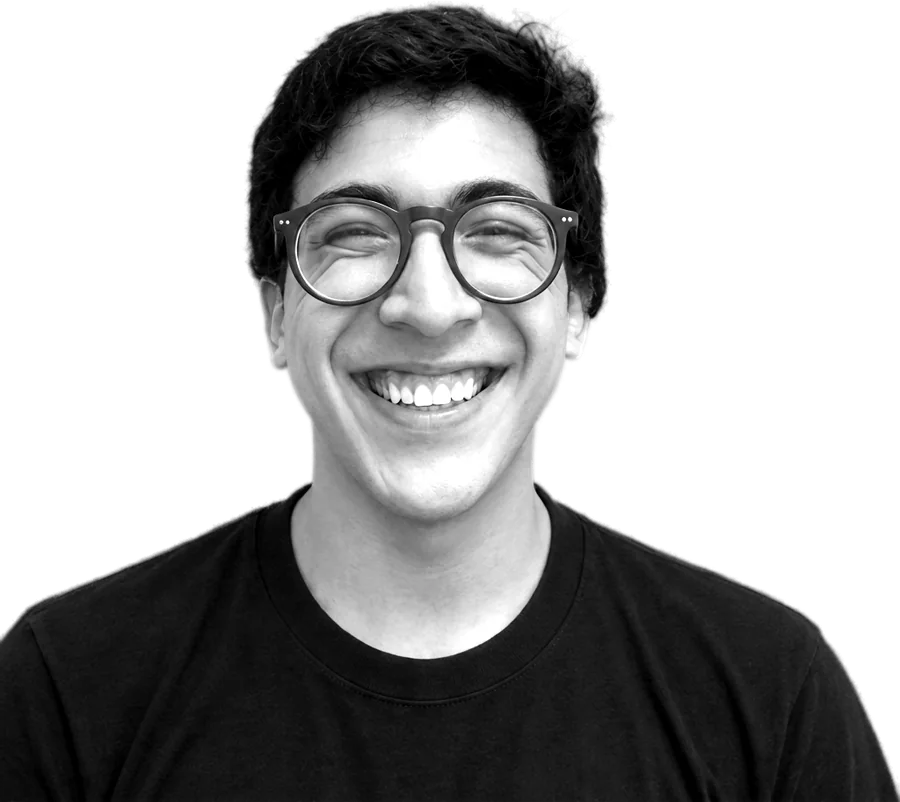
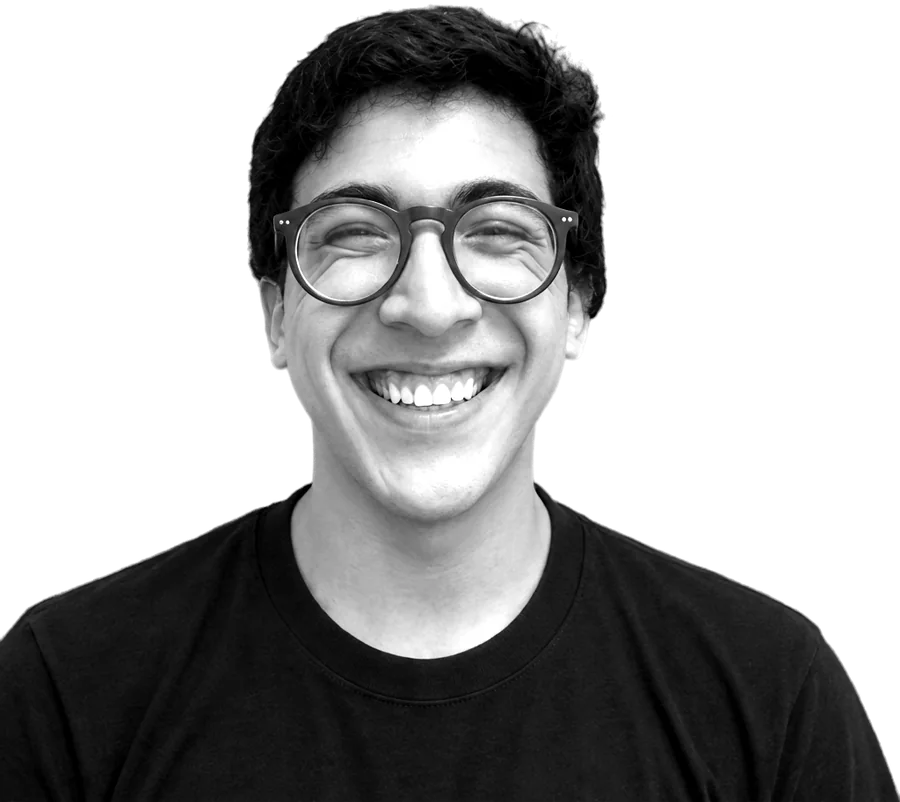
Hero de marca personal a pantalla completa (v2)
Inspirado en las webs de Vilma Núñez, Marie Forleo y Pat Flynn revisadas en Chrome: fondo marino a todo el alto de la pantalla, retrato en blanco y negro grande a la derecha que se funde con el fondo y el titular montado sobre la imagen. En móvil, la foto arriba y el titular encima de su borde inferior. Ajustado para pantallas bajas (1536x730): el botón queda visible sin bajar.

Claude-Session: https://claude.ai/code/session_01E4dwmk8EYevZGHRGn8BBYn

diff --git a/landing/assets/site.css b/landing/assets/site.css
@@ -278,50 +278,61 @@ a[href^="mailto:"], a[href^="tel:"]{overflow-wrap:anywhere;}
 
 
 /* ============================================================
-   Hero con retrato recortado (25 oct 2026)
-   Patrón de marca personal: titular a la izquierda, la persona a
-   la derecha apoyada en el borde inferior. Detrás, los tres
-   círculos del método en línea fina; la tarjeta pone nombre.
+   Hero de marca personal (25 oct 2026, v2)
+   Referencias revisadas en Chrome: Vilma Núñez, Marie Forleo,
+   Pat Flynn. Patrón común: la persona a pantalla completa, fondo
+   oscuro y el titular encima de la imagen, como un solo bloque.
+   Aquí: fondo marino, retrato en blanco y negro que ocupa todo el
+   alto a la derecha y se funde con el fondo; el titular se monta
+   sobre el borde del retrato.
    ============================================================ */
-.hero{padding-bottom:0 !important;}
-.hero-grid{display:grid; grid-template-columns:1.1fr .9fr; gap:48px; align-items:end;}
-.hero-copy{padding-bottom:120px;}
-.hero-portrait{position:relative; margin:0; align-self:end; justify-self:center; width:100%; max-width:520px;}
-.hero-portrait img{position:relative; z-index:1; display:block; width:100%; height:auto;}
-.hero-rings{position:absolute; z-index:0; left:-6%; top:-8%; width:112%; height:auto; fill:none; stroke-width:1.5;}
-.hero-rings circle:nth-child(1){stroke:var(--olive);}
-.hero-rings circle:nth-child(2){stroke:var(--ink); opacity:.55;}
-.hero-rings circle:nth-child(3){stroke:var(--olive-soft);}
-.hero-card{
-  position:absolute; z-index:2; left:-28px; bottom:96px; max-width:250px;
-  background:var(--white); border-left:3px solid var(--olive);
-  padding:14px 16px; box-shadow:0 10px 30px rgba(22,33,58,.12);
-  font-family:'Poppins',sans-serif; font-size:13px; line-height:1.45; color:var(--ink-soft);
+.hero.hero-full{
+  background:var(--navy-block) !important; clip-path:none !important;
+  padding:0 !important; min-height:max(560px, calc(100svh - 77px)); display:flex; align-items:center;
+  position:relative; overflow:hidden;
 }
-.hero-card b{display:block; font-family:'Space Grotesk',sans-serif; font-size:15px; color:var(--ink); margin-bottom:4px;}
+.hero-full .wrap.hero-grid{display:block; position:static; width:100%;}
+.hero-full .hero-copy{position:relative; z-index:3; max-width:min(680px, 58%); padding:56px 0;}
+.hero-full .hero-kicker{color:var(--mint);}
+.hero-full h1{color:var(--on-navy) !important; font-size:clamp(38px, min(4.8vw, 8.4vh), 70px) !important; line-height:1.02 !important; text-shadow:0 2px 24px rgba(22,33,58,.55);}
+.hero-full .lede{color:rgba(250,248,243,.78) !important; max-width:46ch; margin-top:20px !important;}
+.hero-full .tachado-linea{margin-top:20px;}
+.hero-full .btn-primary{background:var(--mint) !important; color:var(--navy-block) !important;}
+.hero-full .btn-primary:hover{background:var(--on-navy) !important;}
+.hero-full .btn-ghost{color:var(--on-navy) !important; border-bottom-color:rgba(250,248,243,.6) !important;}
+.hero-full .hero-actions{margin-top:26px !important;}
+.hero-full .hero-portrait{position:absolute; z-index:1; right:0; bottom:0; height:100%; width:min(62vw, 980px); margin:0;}
+.hero-full .hero-portrait img{position:absolute; right:-2%; bottom:0; height:96%; width:auto; max-width:none; object-fit:contain;}
+.hero-full .hero-portrait::after{ /* funde el retrato con el fondo por la izquierda y abajo */
+  content:""; position:absolute; inset:0; z-index:2; pointer-events:none;
+  background:linear-gradient(90deg, var(--navy-block) 0%, rgba(22,33,58,.85) 18%, rgba(22,33,58,0) 52%),
+             linear-gradient(0deg, rgba(22,33,58,.9) 0%, rgba(22,33,58,0) 22%);
+}
+.hero-full .hero-name{position:absolute; z-index:3; right:40px; bottom:28px; text-align:right; font-family:'Poppins',sans-serif; color:rgba(250,248,243,.8); font-size:13px;}
+.hero-full .hero-name b{display:block; font-family:'Space Grotesk',sans-serif; font-size:16px; color:var(--on-navy);}
+.hero-full .hero-name span{color:var(--mint);}
 @media (max-width:900px){
-  .hero-grid{grid-template-columns:1fr !important; gap:28px !important;}
-  .hero-copy{padding-bottom:0;}
-  .hero-portrait{max-width:340px;}
-  .hero-card{left:auto; right:-8px; bottom:40px; max-width:200px; font-size:12px;}
+  .hero.hero-full{display:block; min-height:0;}
+  .hero-full .hero-portrait{position:relative; width:100%; height:auto; aspect-ratio:9/8;}
+  .hero-full .hero-portrait img{position:absolute; left:50%; right:auto; transform:translateX(-50%); height:100%;}
+  .hero-full .hero-portrait::after{background:linear-gradient(0deg, var(--navy-block) 0%, rgba(22,33,58,0) 45%);}
+  .hero-full .hero-name{right:16px; bottom:auto; top:16px;}
+  .hero-full .hero-copy{max-width:none; margin-top:-90px; padding:0 0 48px;}
 }
-
-/* Ajuste: foto y titular comparten la primera pantalla */
-@media (min-width:901px){
-  .hero{padding-top:56px !important;}
-  .hero-grid{min-height:min(calc(100vh - 77px), 820px); grid-template-columns:1fr 1fr; gap:32px; align-items:stretch;}
-  .hero-copy{align-self:center; padding-bottom:64px;}
-  .hero .hero-copy h1{font-size:clamp(40px, 4.4vw, 62px);}
-  .hero-portrait{align-self:end; max-width:600px;}
-  .hero-card{left:-36px; bottom:44px;}
+@media (max-width:900px){ .hero-full .wrap.hero-grid{display:flex !important; flex-direction:column-reverse;} .hero-full .hero-copy{position:relative;} }
+/* El retrato se desvanece por sus propios bordes (no depende del ancho de pantalla) */
+.hero-full .hero-portrait img{
+  -webkit-mask-image:linear-gradient(90deg, transparent 0%, #000 28%), linear-gradient(0deg, transparent 0%, #000 18%);
+  -webkit-mask-composite:source-in; mask-image:linear-gradient(90deg, transparent 0%, #000 28%), linear-gradient(0deg, transparent 0%, #000 18%); mask-composite:intersect;
 }
-@media (max-width:900px){ .hero-card{bottom:14px; right:-6px;} }
-@media (min-width:901px){
-  .hero-portrait{width:auto; max-width:none; justify-self:end;}
-  .hero-portrait img{height:min(calc(100vh - 150px), 720px); width:auto; max-width:46vw; object-fit:contain; object-position:bottom;}
+.hero-full .hero-name{bottom:112px;}
+@media (max-width:900px){
+  .hero-full .hero-portrait img{-webkit-mask-image:linear-gradient(0deg, transparent 0%, #000 40%); mask-image:linear-gradient(0deg, transparent 0%, #000 40%);}
+  .hero-full .hero-name{display:none;}
 }
-@media (min-width:901px){
-  .hero-grid{grid-template-columns:minmax(0,1fr) minmax(0,1fr) !important;}
-  .hero-portrait{max-width:100%;}
-  .hero-portrait img{max-width:100%;}
+@media (min-width:901px) and (max-width:1200px){
+  .hero-full .hero-portrait img{right:-16%; height:86%;}
+  .hero-full .hero-copy{max-width:56%;}
 }
+.hero-full .hero-portrait::after{display:none !important;}
+.hero-full + .marquee-strip{border-top:1px solid rgba(250,248,243,.12);}

diff --git a/landing/index.html b/landing/index.html
@@ -888,7 +888,7 @@
   <a href="#diagnostico" class="mobile-cta">Postula tu negocio →</a>
 </nav>
 
-<section class="hero">
+<section class="hero hero-full on-dark">
   <div class="wrap hero-grid">
     <div class="hero-copy">
       <p class="hero-kicker">Marca y negocio · Venezuela</p>
@@ -903,15 +903,9 @@
         <a href="#metodo" class="btn-ghost">Ver el método →</a>
       </div>
     </div>
-    <figure class="hero-portrait">
-      <svg class="hero-rings" viewBox="0 0 420 380" aria-hidden="true">
-        <circle cx="160" cy="150" r="118"/><circle cx="260" cy="150" r="118"/><circle cx="210" cy="238" r="118"/>
-      </svg>
+    <figure class="hero-portrait" aria-hidden="false">
       <img src="assets/fernando-hero.webp" alt="Juan Fernando Méndez Sánchez, Fernando, sonriendo" width="900" height="802" fetchpriority="high">
-      <figcaption class="hero-card">
-        <b>Juan Fernando Méndez Sánchez</b>
-        <span>Mi marca es el primer caso.</span>
-      </figcaption>
+      <figcaption class="hero-name"><b>Juan Fernando Méndez Sánchez</b><span>Mi marca es el primer caso</span></figcaption>
     </figure>
   </div>
 </section>
